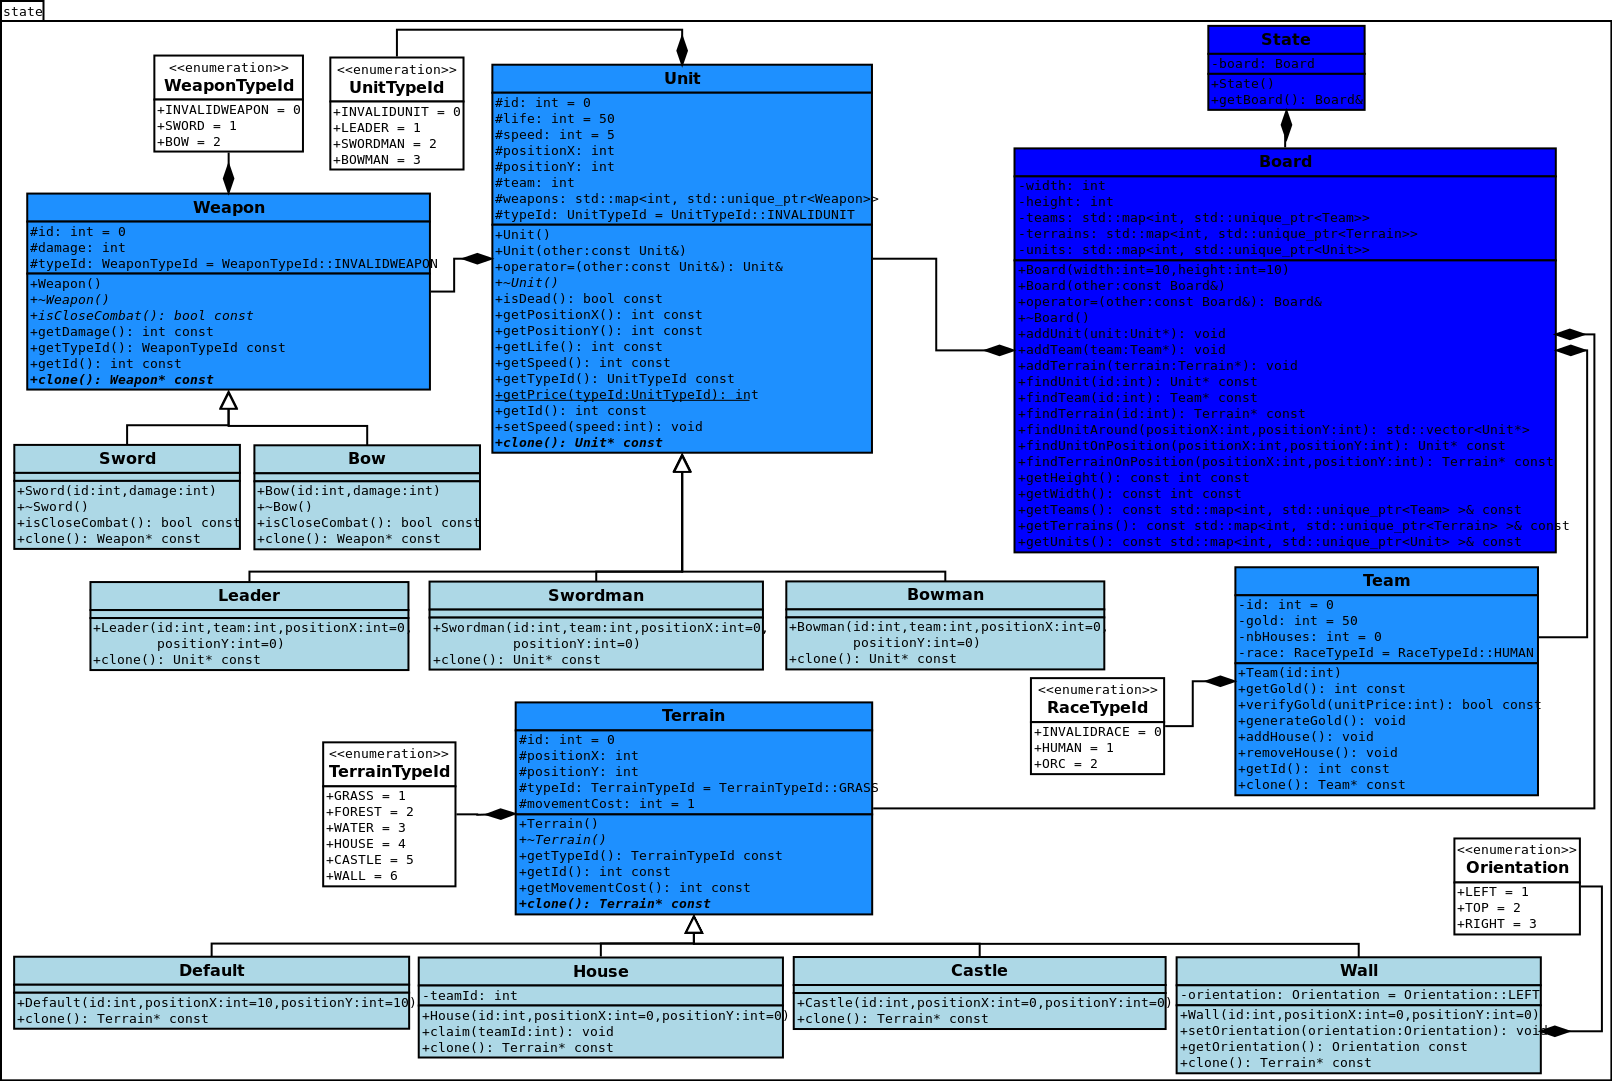
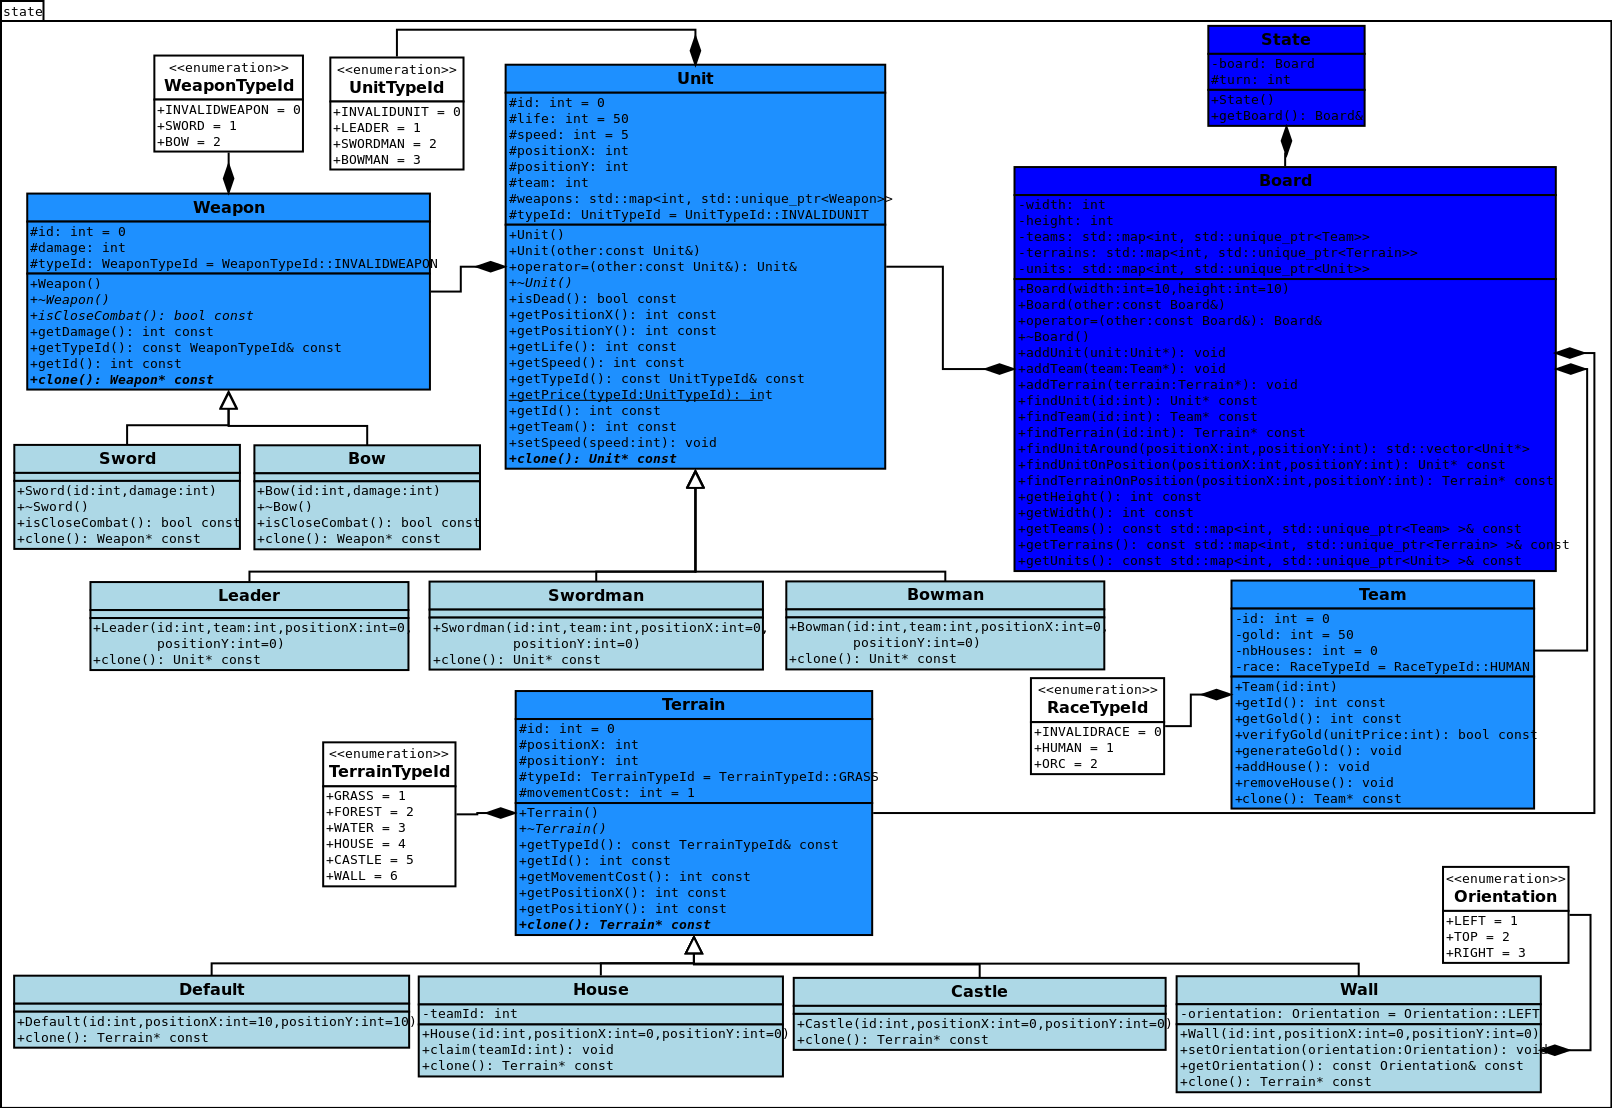
Update getters

diff --git a/src/shared/state/Unit.cpp b/src/shared/state/Unit.cpp
@@ -38,23 +38,23 @@ namespace state {
         return *this;
     }
 
-    const int& Unit::getId() const {
+    int Unit::getId() const {
         return id;
     }
 
-    const int& Unit::getLife() const {
+    int Unit::getLife() const {
         return life;
     }
 
-    const int& Unit::getPositionX() const {
+    int Unit::getPositionX() const {
         return positionX;
     }
 
-    const int& Unit::getPositionY() const {
+    int Unit::getPositionY() const {
         return positionY;
     }
 
-    const int Unit::getPrice(UnitTypeId typeId) {
+    int Unit::getPrice(UnitTypeId typeId) {
         int price;
         
         switch (typeId) {
@@ -74,11 +74,11 @@ namespace state {
         return price;
     }
 
-    const int& Unit::getSpeed() const {
+    int Unit::getSpeed() const {
         return speed;
     }
 
-    const int& Unit::getTeam() const {
+    int Unit::getTeam() const {
         return team;
     }
 

diff --git a/src/shared/state/Board.h b/src/shared/state/Board.h
@@ -27,7 +27,6 @@ namespace state {
     /// 	
     int width;
     int height;
-    int turn     = 0;
     std::map<int, std::unique_ptr<Team>> teams;
     std::map<int, std::unique_ptr<Terrain>> terrains;
     std::map<int, std::unique_ptr<Unit>> units;
@@ -52,8 +51,8 @@ namespace state {
     std::vector<Unit*> findUnitAround (int positionX, int positionY);
     Unit* findUnitOnPosition (int positionX, int positionY) const;
     Terrain* findTerrainOnPosition (int positionX, int positionY) const;
-    const int& getHeight () const;
-    const int& getWidth () const;
+    int getHeight () const;
+    int getWidth () const;
     const std::map<int, std::unique_ptr<Team> >& getTeams () const;
     const std::map<int, std::unique_ptr<Terrain> >& getTerrains () const;
     const std::map<int, std::unique_ptr<Unit> >& getUnits () const;

diff --git a/src/shared/state/Unit.h b/src/shared/state/Unit.h
@@ -35,14 +35,14 @@ namespace state {
     Unit& operator= (const Unit& other);
     virtual ~Unit ();
     bool isDead () const;
-    const int& getPositionX () const;
-    const int& getPositionY () const;
-    const int& getLife () const;
-    const int& getSpeed () const;
+    int getPositionX () const;
+    int getPositionY () const;
+    int getLife () const;
+    int getSpeed () const;
     const UnitTypeId& getTypeId () const;
-    static const int getPrice (UnitTypeId typeId);
-    const int& getId () const;
-    const int& getTeam () const;
+    static int getPrice (UnitTypeId typeId);
+    int getId () const;
+    int getTeam () const;
     void setSpeed (int speed);
     virtual Unit* clone () const = 0;
     // Setters and Getters

diff --git a/src/shared/state/Terrain.cpp b/src/shared/state/Terrain.cpp
@@ -6,19 +6,19 @@ namespace state {
 
     }
 
-    const int& Terrain::getId() const {
+    int Terrain::getId() const {
         return id;
     }
 
-    const int& Terrain::getMovementCost() const {
+    int Terrain::getMovementCost() const {
         return movementCost;
     }
 
-    const int& Terrain::getPositionX() const {
+    int Terrain::getPositionX() const {
         return positionX;
     }
 
-    const int& Terrain::getPositionY() const {
+    int Terrain::getPositionY() const {
         return positionY;
     }
 

diff --git a/src/shared/state/Terrain.h b/src/shared/state/Terrain.h
@@ -26,10 +26,10 @@ namespace state {
     Terrain ();
     virtual ~Terrain ();
     const TerrainTypeId& getTypeId () const;
-    const  int& getId () const;
-    const int& getMovementCost () const;
-    const int& getPositionX () const;
-    const int& getPositionY () const;
+    int getId () const;
+    int getMovementCost () const;
+    int getPositionX () const;
+    int getPositionY () const;
     virtual Terrain* clone () const = 0;
     // Setters and Getters
     void setId(int id);

diff --git a/src/shared/state/Weapon.h b/src/shared/state/Weapon.h
@@ -24,9 +24,9 @@ namespace state {
     Weapon ();
     virtual ~Weapon ();
     virtual bool const isCloseCombat ();
-    const int& getDamage () const;
+    int getDamage () const;
     const WeaponTypeId& getTypeId () const;
-    const int& getId () const;
+    int getId () const;
     virtual Weapon* clone () const = 0;
     // Setters and Getters
     void setId(int id);

diff --git a/src/shared/state/Team.cpp b/src/shared/state/Team.cpp
@@ -6,7 +6,7 @@ namespace state {
         this->id = id;
     }
 
-    const int& Team::getGold() const {
+    int Team::getGold() const {
         return gold;
     }
 
@@ -30,7 +30,7 @@ namespace state {
         nbHouses--;
     }
 
-    const int& Team::getId() const {
+    int Team::getId() const {
         return id;
     }
         

diff --git a/src/client/state.cpp b/src/client/state.cpp
@@ -188,7 +188,7 @@ namespace state {
             std::cout << "ERREUR : L'ajout d'unité au jeu à planté !" << std::endl;
         }
         std::cout << "***************************************************" << std::endl;
-        
+        std::cout << "Tests terminés avec succès !!" << std::endl;
     }
 
 }

diff --git a/src/shared/state/Team.h b/src/shared/state/Team.h
@@ -23,8 +23,8 @@ namespace state {
     // Operations
   public:
     Team (int id);
-    const int& getId () const;
-    const int& getGold () const;
+    int getId () const;
+    int getGold () const;
     bool verifyGold (int unitPrice) const;
     void generateGold ();
     void addHouse ();

diff --git a/src/shared/state/Board.cpp b/src/shared/state/Board.cpp
@@ -99,11 +99,11 @@ namespace state {
         return NULL;
     }
 
-    const int& Board::getHeight() const {
+    int Board::getHeight() const {
         return height;
     }
 
-    const int& Board::getWidth() const {
+    int Board::getWidth() const {
         return width;
     }
 

diff --git a/src/shared/state/State.h b/src/shared/state/State.h
@@ -17,11 +17,15 @@ namespace state {
     // Attributes
   private:
     Board board;
+  protected:
+    int turn;
     // Operations
   public:
     State ();
     Board& getBoard ();
     // Setters and Getters
+    int getTurn() const;
+    void setTurn(int turn);
   };
 
 };

diff --git a/src/shared/state/Weapon.cpp b/src/shared/state/Weapon.cpp
@@ -10,11 +10,11 @@ namespace state {
 
     }
 
-    const int& Weapon::getDamage() const {
+    int Weapon::getDamage() const {
         return damage;
     }
 
-    const int& Weapon::getId() const {
+    int Weapon::getId() const {
         return id;
     }
 
